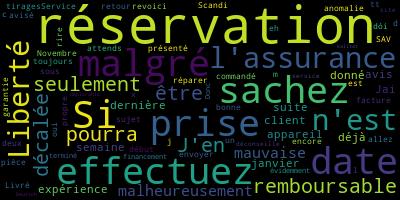
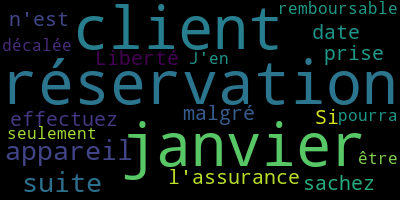
Fixed word clouds

diff --git a/utils.py b/utils.py
@@ -30,15 +30,11 @@ def remove_stop(df):
 
 
 def create_wcloud(data):
-    word_occ = []
-    # For each tuple (word:occurrence) multiply word by occurrence
-    wordocc = [(lambda a: ((a[0] + "|") * a[1])[0:-1])(x) for x in data["recent"]["pos"]]
-    # Transform the multiples list in one list
-    [(lambda b: word_occ.extend(b.split("|")))(y) for y in wordocc]
-    # Transform the list to a string
-    text = ' '.join(word_occ)
+    word_occ = {}
+    # Create a dict
+    [(lambda b: word_occ.update({y[0]: y[1]}))(y) for y in data["recent"]["pos"]]
     # Generate the Wordcloud and create an image
-    cloud = wordcloud.WordCloud().generate(text)
+    cloud = wordcloud.WordCloud(max_words=20, repeat=False, collocations = False).fit_words(word_occ)
     cloud.to_file("static/images/rec_pos.png")
 
     word_occ = []
@@ -49,7 +45,7 @@ def create_wcloud(data):
     # Transform the list to a string
     text = ' '.join(word_occ)
     # Generate the Wordcloud and create an image
-    cloud = wordcloud.WordCloud().generate(text)
+    cloud = wordcloud.WordCloud(max_words=20, repeat=False, collocations = False).generate(text)
     cloud.to_file("static/images/rec_neg.png")
 
     word_occ = []
@@ -60,7 +56,7 @@ def create_wcloud(data):
     # Transform the list to a string
     text = ' '.join(word_occ)
     # Generate the Wordcloud and create an image
-    cloud = wordcloud.WordCloud().generate(text)
+    cloud = wordcloud.WordCloud(max_words=20, repeat=False, collocations = False).generate(text)
     cloud.to_file("static/images/old_pos.png")
 
     word_occ = []
@@ -71,7 +67,7 @@ def create_wcloud(data):
     # Transform the list to a string
     text = ' '.join(word_occ)
     # Generate the Wordcloud and create an image
-    cloud = wordcloud.WordCloud().generate(text)
+    cloud = wordcloud.WordCloud(max_words=20, repeat=False, collocations = False).generate(text)
     cloud.to_file("static/images/old_neg.png")
 
 

diff --git a/api.py b/api.py
@@ -34,9 +34,9 @@ def search(local, domain):
                  {'pos': pos_recent, "neg": neg_recent},
                  'old':
                  {'pos': pos_old, 'neg': neg_old}}
+    utils.create_wcloud(wordcloud)
 
     try:
-        utils.create_wcloud(wordcloud)
         return render_template("dashboard.html", review=no_reviews,
                                company=no_companies, most_company=most_company)
 
